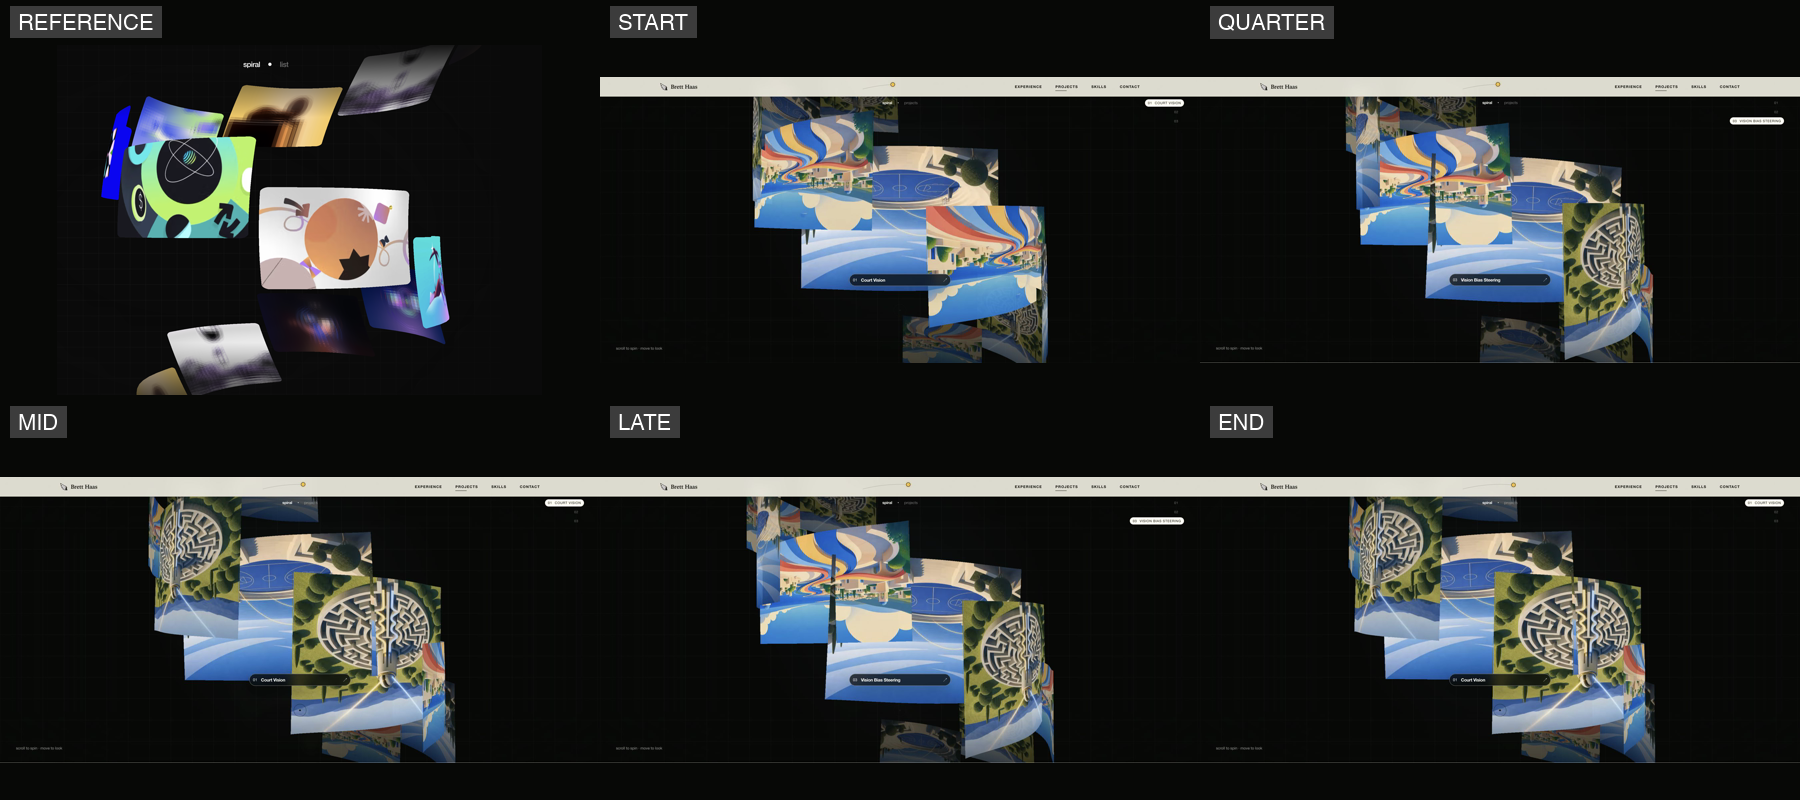
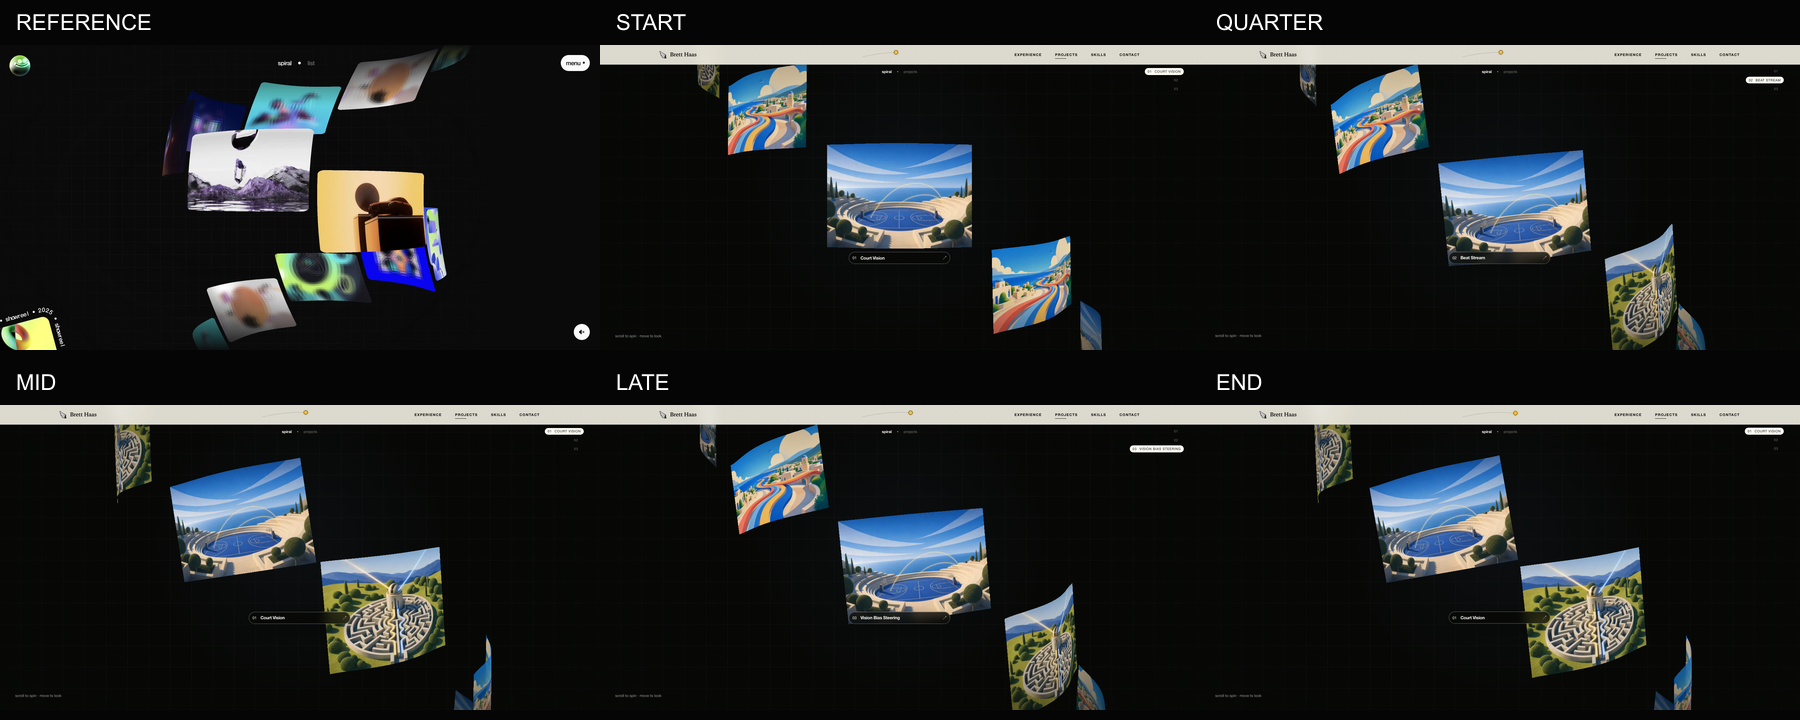
Fix project spiral orientation and spacing (#40)
Correct the project card texture orientation and open the helix spacing to match the supplied reference. Includes rendering regression tests and refreshed visual verification artifacts.

diff --git a/lib/project-spiral.test.ts b/lib/project-spiral.test.ts
@@ -3,6 +3,7 @@ import { describe, expect, it } from 'vitest'
 import {
   getFrontProjectIndex,
   getProjectSpiralFrame,
+  getProjectSpiralLayout,
   getProjectSpiralPhase,
 } from './project-spiral'
 
@@ -41,6 +42,67 @@ describe('project spiral choreography', () => {
     expect(wrappedNeighbor.x).toBeLessThan(0)
     expect(wrappedNeighbor.y).toBeGreaterThan(0)
     expect(wrappedNeighbor.depth).toBeCloseTo(firstNeighbor.depth, 5)
+  })
+
+  it('keeps neighboring front cards separated at the reference viewport', () => {
+    const layout = getProjectSpiralLayout({ height: 7.68, width: 15.1 })
+    const front = getProjectSpiralFrame({
+      phase: 0,
+      slotCount: 9,
+      slotIndex: 0,
+      velocity: 0,
+    })
+    const neighbor = getProjectSpiralFrame({
+      phase: 0,
+      slotCount: 9,
+      slotIndex: 1,
+      velocity: 0,
+    })
+    const horizontalSeparation = Math.abs(front.x - neighbor.x) * layout.horizontalRadius
+    const combinedHalfWidth = (
+      layout.targetCardWidth * front.scale
+      + layout.targetCardWidth * neighbor.scale
+    ) / 2
+    const verticalSeparation = Math.abs(front.y - neighbor.y) * layout.verticalPitch
+    const combinedHalfHeight = (
+      layout.targetCardWidth * front.scale / (1200 / 848)
+      + layout.targetCardWidth * neighbor.scale / (1200 / 686)
+    ) / 2
+
+    expect(layout.targetCardWidth).toBeLessThanOrEqual(layout.horizontalRadius * 0.75)
+    expect(
+      horizontalSeparation > combinedHalfWidth
+      || verticalSeparation > combinedHalfHeight,
+    ).toBe(true)
+  })
+
+  it('keeps mobile cards large enough to read without merging them', () => {
+    const layout = getProjectSpiralLayout({ height: 7.8, width: 3.6 }, true)
+    const front = getProjectSpiralFrame({
+      phase: 0,
+      slotCount: 9,
+      slotIndex: 0,
+      velocity: 0,
+    })
+    const neighbor = getProjectSpiralFrame({
+      phase: 0,
+      slotCount: 9,
+      slotIndex: 1,
+      velocity: 0,
+    })
+    const horizontalSeparation = Math.abs(front.x - neighbor.x) * layout.horizontalRadius
+    const combinedHalfWidth = layout.targetCardWidth * (front.scale + neighbor.scale) / 2
+    const verticalSeparation = Math.abs(front.y - neighbor.y) * layout.verticalPitch
+    const combinedHalfHeight = (
+      layout.targetCardWidth * front.scale / (1200 / 848)
+      + layout.targetCardWidth * neighbor.scale / (1200 / 686)
+    ) / 2
+
+    expect(layout.targetCardWidth).toBeGreaterThanOrEqual(3.6 * 0.5)
+    expect(
+      horizontalSeparation > combinedHalfWidth
+      || verticalSeparation > combinedHalfHeight,
+    ).toBe(true)
   })
 
   it('advances the next slot to the front after one phase step', () => {

diff --git a/components/scenes/ProjectSpiralScene.tsx b/components/scenes/ProjectSpiralScene.tsx
@@ -9,8 +9,10 @@ import * as THREE from 'three'
 import type { ProjectSpiralMotionState } from '@/components/projects/project-spiral-types'
 import {
   getProjectSpiralFrame,
+  getProjectSpiralLayout,
   PROJECT_SPIRAL_SLOT_ORDER,
 } from '@/lib/project-spiral'
+import { configureProjectSpiralTexture } from '@/lib/project-spiral-rendering'
 
 const CARD_COUNT = 9
 const MODEL_PATH = '/models/project-spiral.glb'
@@ -80,12 +82,8 @@ function ProjectSpiralCards({
   )
 
   useEffect(() => {
-    const anisotropy = Math.min(8, gl.capabilities.getMaxAnisotropy())
-    textures.forEach((texture) => {
-      texture.anisotropy = anisotropy
-      texture.colorSpace = THREE.SRGBColorSpace
-      texture.needsUpdate = true
-    })
+    const maximumAnisotropy = gl.capabilities.getMaxAnisotropy()
+    textures.forEach((texture) => configureProjectSpiralTexture(texture, maximumAnisotropy))
     return () => materials.forEach((material) => material.dispose())
   }, [gl, materials, textures])
 
@@ -119,9 +117,11 @@ function ProjectSpiralCards({
       delta,
     )
 
-    const horizontalRadius = Math.min(viewport.width * 0.23, 4.4)
-    const verticalPitch = viewport.height * 0.44
-    const targetCardWidth = Math.min(viewport.width * 0.26, 4.45)
+    const {
+      horizontalRadius,
+      targetCardWidth,
+      verticalPitch,
+    } = getProjectSpiralLayout(viewport, isMobile)
     for (let index = 0; index < CARD_COUNT; index += 1) {
       const mesh = meshRefs.current[index]
       if (!mesh) continue

diff --git a/lib/project-spiral.ts b/lib/project-spiral.ts
@@ -10,6 +10,17 @@ interface ProjectSpiralFrameInput {
   readonly velocity: number
 }
 
+interface ProjectSpiralViewport {
+  readonly height: number
+  readonly width: number
+}
+
+export interface ProjectSpiralLayout {
+  readonly horizontalRadius: number
+  readonly targetCardWidth: number
+  readonly verticalPitch: number
+}
+
 export interface ProjectSpiralFrame {
   readonly angle: number
   readonly depth: number
@@ -29,6 +40,17 @@ function positiveModulo(value: number, divisor: number) {
 function getCenteredSlot(slotIndex: number, phase: number, slotCount: number) {
   const half = slotCount / 2
   return positiveModulo(slotIndex - phase + half, slotCount) - half
+}
+
+export function getProjectSpiralLayout(
+  viewport: ProjectSpiralViewport,
+  isMobile = false,
+): ProjectSpiralLayout {
+  return {
+    horizontalRadius: Math.min(viewport.width * (isMobile ? 0.72 : 0.32), isMobile ? 3.2 : 5.2),
+    targetCardWidth: Math.min(viewport.width * (isMobile ? 0.52 : 0.19), isMobile ? 2.2 : 3.6),
+    verticalPitch: viewport.height * 0.5,
+  }
 }
 
 export function getProjectSpiralFrame({
@@ -51,7 +73,7 @@ export function getProjectSpiralFrame({
     scale: 0.62 + depthProgress * 0.46,
     velocitySkew: Math.max(-0.14, Math.min(0.14, velocity * 0.0014)),
     x: Math.sin(angle),
-    y: -centeredSlot * 0.285,
+    y: -centeredSlot * 0.48,
     zIndex: Math.round(depth * 1_000),
   }
 }

diff --git a/lib/project-spiral-rendering.test.ts b/lib/project-spiral-rendering.test.ts
@@ -1,0 +1,17 @@
+import { Texture } from 'three'
+import { describe, expect, it } from 'vitest'
+
+import { configureProjectSpiralTexture } from './project-spiral-rendering'
+
+describe('project spiral texture configuration', () => {
+  it('uses glTF UV orientation so project images render upright', () => {
+    const texture = new Texture()
+
+    configureProjectSpiralTexture(texture, 12)
+
+    expect(texture.flipY).toBe(false)
+    expect(texture.anisotropy).toBe(8)
+    expect(texture.colorSpace).toBe('srgb')
+    expect(texture.version).toBeGreaterThan(0)
+  })
+})

diff --git a/lib/project-spiral-rendering.ts b/lib/project-spiral-rendering.ts
@@ -1,0 +1,11 @@
+import { SRGBColorSpace, type Texture } from 'three'
+
+export function configureProjectSpiralTexture(
+  texture: Texture,
+  maximumAnisotropy: number,
+) {
+  texture.flipY = false
+  texture.anisotropy = Math.min(8, maximumAnisotropy)
+  texture.colorSpace = SRGBColorSpace
+  texture.needsUpdate = true
+}

diff --git a/design-refs/VERIFICATION.md b/design-refs/VERIFICATION.md
@@ -528,3 +528,27 @@ The reference analysis, two procedural iterations, compressed named-node GLB,
 R3F integration, responsive/reduced-motion fallbacks, performance overlay,
 five-state comparison, coverage, production build, and cross-browser E2E gates
 are complete.
+
+## July 24, 2026 — Upright texture and card-gap correction
+
+- The live reference and deployed project section were reopened at 1800 × 914.
+  The deployed image textures were vertically inverted, and the nearest cards
+  intersected in both projected axes.
+- Root cause: TextureLoader's default vertical flip was being applied to
+  geometry using glTF UV orientation. The shared texture configuration now
+  enforces `flipY = false`, sRGB output, capped anisotropy, and a texture update
+  before the material becomes visible.
+- The desktop card target was reduced to 19% of the R3F viewport width and the
+  helix radius increased to 32%. A pure layout regression test uses the real
+  Court Vision and Beat Stream aspect ratios and proves immediate neighbors do
+  not intersect in projected 2D space. Mobile keeps a larger readable card ratio
+  with the same negative-space invariant.
+- `comparison.png` was rebuilt from the live reference plus corrected production
+  captures at start, 25%, 50%, 75%, and 100%. It was opened at 1800 × 720 and
+  confirms upright artwork and visible black gaps at all five states. Desktop
+  and 390 × 844 browser renders were also inspected directly.
+- Final verification: 234 tests across 57 files, 90.13% statements, 80.41%
+  branches, 83.02% functions, and 93.44% lines. TypeScript and the eight-route
+  production static export pass. The isolated production spiral journey passes
+  in Chromium, Firefox, desktop WebKit, and iPhone WebKit with no
+  application-origin console errors.

diff --git a/design-refs/ANALYSIS.md b/design-refs/ANALYSIS.md
@@ -938,6 +938,22 @@ portfolio's existing Experience, Projects, and Skills artwork.
 - Motion order is cyclic rather than destructive. No object permanently leaves
   the system; slots wrap deterministically after one full revolution.
 
+## July 24 orientation and spacing correction
+
+- The project artwork must read upright on every front-facing card. Because the
+  procedural card UVs are exported through glTF, runtime image textures use
+  `flipY = false`; the TextureLoader default inverts the artwork.
+- The user-confirmed silhouette requires visible black negative space between
+  neighboring cards. At the 1800 × 914 reference viewport, the projected
+  center-to-center vertical separation of the front card and either immediate
+  neighbor must exceed their combined projected half-heights.
+- The nearest card targets roughly 19% of the desktop viewport width, while the
+  helix radius targets roughly 27%. Mobile keeps a larger readable card ratio
+  but preserves the same non-contact vertical invariant.
+- Depth ordering may create visual overlap between distant back cards, as in the
+  reference, but the three nearest readable cards must not share an edge or
+  merge into a continuous image wall.
+
 ## Implementation targets
 
 ### Geometry and naming
